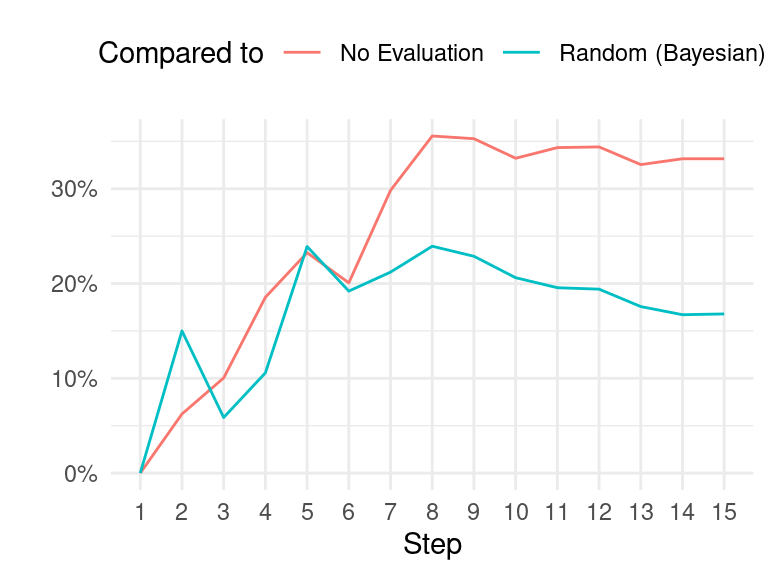
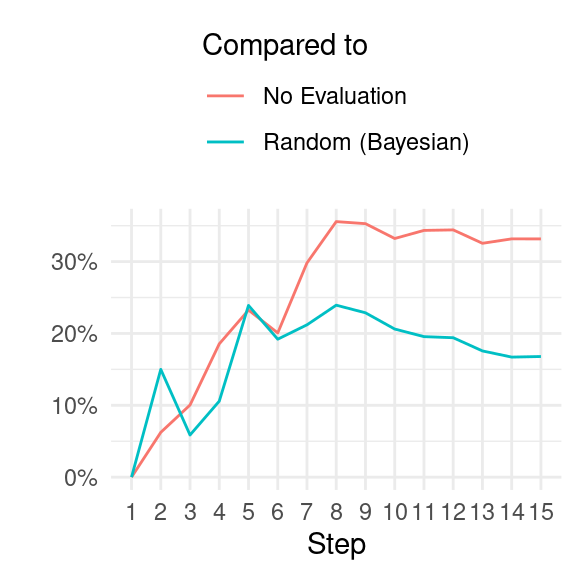
Add conclusion section

diff --git a/docs/diagnose.html b/docs/diagnose.html
@@ -191,12 +191,12 @@ div.csl-indent {
 </div>
 </div>
 <p>The funder is never aware of the true state of the world — the true counterfactual model of all programs’ effectiveness — but they are able to evaluate a program by collecting data and updating their beliefs. I assume that the funder has an initial observation for each program under consideration. This could be data from an earlier experiment or could represent the funder’s or other experts’ prior beliefs.</p>
-<div class="cell fig-cap-location-bottom page-columns page-full" data-hash="diagnose_cache/html/fig-utility-fig_8536ba9b123a1bf1d0a75cb7502ccbda">
+<div class="cell fig-cap-location-bottom page-columns page-full" data-hash="diagnose_cache/html/fig-utility-fig_4dd10d58e440b9084ffba11f66182630">
 
 <div class="no-row-height column-margin column-container"><div class="cell-output-display">
 <div id="fig-utility-fig" class="quarto-figure quarto-figure-center anchored">
 <figure class="figure">
-<p><img src="diagnose_files/figure-html/fig-utility-fig-1.png" class="img-fluid figure-img" width="384"></p>
+<p><img src="diagnose_files/figure-html/fig-utility-fig-1.png" class="img-fluid figure-img" width="288"></p>
 <p></p><figcaption class="figure-caption">Figure&nbsp;2: The exponential utility function, <span class="math inline">\(U(y;\alpha) = 1 - e^{- \alpha y},\)</span> where <span class="math inline">\(\alpha\)</span> represents the degree of risk aversion. In this study, we have <span class="math inline">\(\alpha = 0.25\)</span>.</figcaption><p></p>
 </figure>
 </div>
@@ -279,31 +279,60 @@ G_{\pi,t:T} = \sum_{r=t}^T \gamma^{r-t}E_{\boldsymbol{\theta}_r\sim b_{r-1}}[R(\
 </div>
 </div>
 </div>
-<div class="cell fig-cap-location-bottom page-columns page-full" data-hash="diagnose_cache/html/fig-returns-percent-compare_56f7a4ca0d33f2ffaf762aeab96878fc">
+<div class="cell fig-cap-location-bottom page-columns page-full" data-hash="diagnose_cache/html/fig-returns-percent-compare_65bd719d3d9102edcc8b99ead2324231">
 
 <div class="no-row-height column-margin column-container"><div class="cell-output-display">
 <div id="fig-returns-percent-compare" class="quarto-figure quarto-figure-center anchored">
 <figure class="figure">
-<p><img src="diagnose_files/figure-html/fig-returns-percent-compare-1.png" class="img-fluid figure-img" width="384"></p>
+<p><img src="diagnose_files/figure-html/fig-returns-percent-compare-1.png" class="img-fluid figure-img" width="288"></p>
 <p></p><figcaption class="figure-caption">Figure&nbsp;6: Percentage increase in mean accumulated discounted utility gain, <span class="math inline">\(\frac{\widetilde{W}_T(\pi) - \widetilde{W}_T(\pi')}{\widetilde{W}_T(\pi')}.\)</span></figcaption><p></p>
 </figure>
 </div>
 </div></div></div>
 <p>To provide a clearer comparison, we calculate the percentage difference between the highest performing policies and two baseline policies: (i) the no-evaluation policy, and (ii) the random Bayesian policy (which is roughly on par with the random frequentist policy). When compared to the policy of never re-evaluating a program once it is selected for implementation, we observe that the Bayesian evaluate-second-best and the PFT-DPW offline policies show an average accumulated welfare that is more than 20% higher after four episode steps, and surpasses 30% after seven steps. In comparison to the frequentist policies (evaluate-second-best and random), the highest performing policies show around 20% improvement after five steps.</p>
-<div class="cell fig-cap-location-bottom page-columns page-full" data-hash="diagnose_cache/html/fig-step1-returns_5725224530e7b868db1853e214f291fa">
+</section>
+<section id="conclusion" class="level1 page-columns page-full" data-number="6">
+<h1 data-number="6"><span class="header-section-number">6</span> Conclusion</h1>
+<div class="cell fig-cap-location-bottom page-columns page-full" data-hash="diagnose_cache/html/fig-step1-returns_97712e05c777c513c79f963d41b695f0">
 
 <div class="no-row-height column-margin column-container"><div class="cell-output-display">
 <div id="fig-step1-returns" class="quarto-figure quarto-figure-center anchored">
 <figure class="figure">
-<p><img src="diagnose_files/figure-html/fig-step1-returns-1.png" class="img-fluid figure-img" width="384"></p>
-<p></p><figcaption class="figure-caption">Figure&nbsp;7: The distribution of utility gains at <span class="math inline">\(t = 1\)</span>, comparing the best possible program choice, the frequentist policy, and the Bayesian policy.</figcaption><p></p>
+<p><img src="diagnose_files/figure-html/fig-step1-returns-1.png" class="img-fluid figure-img" width="288"></p>
+<p></p><figcaption class="figure-caption">Figure&nbsp;7: The distribution of utility gains at <span class="math inline">\(t = 1\)</span>, comparing the hypothetical best policy, the frequentist policy, and the Bayesian policy.</figcaption><p></p>
 </figure>
 </div>
 </div></div></div>
-</section>
-<section id="conclusion" class="level1" data-number="6">
-<h1 data-number="6"><span class="header-section-number">6</span> Conclusion</h1>
-<div class="cell" data-hash="diagnose_cache/html/unnamed-chunk-18_e9f5efd90d66d31208a70f8b545a38c3">
+<p>In conclusion, through the construction of a simple simulacrum of the problem faced by an Effective Altruism funder and the consideration of planning policies over time, it is evident that there is a significant gap in accumulated welfare between the more naive versions of policies and the more probabilistic and sophisticated policies. This gap becomes more pronounced when we consider the sequential problem, as opposed to the one-shot problem. For instance, in <a href="#fig-step1-returns">Figure&nbsp;7</a>, we can see that there is little difference between a frequentist NHST policy and a probabilistic one in the first step. However, as more steps are taken, differences between the policies become apparent, underscoring the importance of considering the longer-term implications of planning policies.</p>
+<div class="cell page-columns page-full" data-hash="diagnose_cache/html/fig-returns-compare-include-best_3614bc4530feab58d8c3eb371fbd6b1e">
+
+<div class="no-row-height column-margin column-container"><div class="cell-output-display">
+<div id="fig-returns-compare-include-best" class="quarto-figure quarto-figure-center anchored">
+<figure class="figure">
+<p><img src="diagnose_files/figure-html/fig-returns-compare-include-best-1.png" class="img-fluid figure-img" width="288"></p>
+<p></p><figcaption class="figure-caption">Figure&nbsp;8: Mean accumulated discounted utility gains, compared to a no program implementation policy.</figcaption><p></p>
+</figure>
+</div>
+</div></div></div>
+<p>Even considering these factors, the gap between our best performing policy and the best possible hypothetical policy remains substantial (as seen in <a href="#fig-returns-compare-include-best">Figure&nbsp;8</a>). This suggests that there is likely more room for improvement in order to approach an optimal approach<a href="#fn4" class="footnote-ref" id="fnref4" role="doc-noteref"><sup>4</sup></a>. Here are some ideas for enhancing this study to better reflect real-world environments and develop more effective policies (in no particular order):</p>
+<ul>
+<li>Introduce varying program costs to consider the question of cost-effectiveness, as the cost of implementing different programs can have a significant impact on decision-making.</li>
+<li>Explore how the concept of leverage could influence policy decisions, as certain programs may have a greater ability to leverage resources and create broader impact.</li>
+<li>Allow for different population sizes in the simulation, as population size can affect the scalability and impact of interventions.</li>
+<li>Consider the potential for programs to target multiple populations with some correlation, and for populations to support multiple programs with potential complementarity and substitution effects, as this can reflect the complexity and interrelatedness of real-world scenarios.</li>
+<li>Incorporate non-stationarity into the hyperstates, effectively adding correlation between steps and potentially improving predictions and the need for re-evaluation, as real-world environments are dynamic and evolve over time.</li>
+<li>Account for potential diminishing treatment effects over time as the control outcome moves closer to the treatment level, as this can affect the long-term effectiveness of interventions.</li>
+<li>Consider the quality of programs or population compliance and how it may vary over time, as program quality and population behavior can impact outcomes in real-world scenarios.</li>
+<li>Explore differences in evaluations for implemented programs versus non-implemented ones, as this can introduce potential scale effects and reflect the challenges of transitioning from proof-of-concept studies to scaled programs.</li>
+<li>Restrict the implementation action choices to prevent rapid changes between programs due to fixed costs, as it may not always be feasible to shut down and resume programs in quick succession. For example, disallow restarting a program once abandoned to reflect real-world constraints.</li>
+<li>Allow for program entry and exit over time to capture the dynamic nature of program availability and effectiveness.</li>
+<li>Analyze the sensitivity of the simulation to varying the environment’s hyperparameters, <span class="math inline">\(\boldsymbol{\xi}\)</span>, to better understand the robustness of the results to different parameter settings.</li>
+<li>Consider offline policy calculation methods (e.g., deep reinforcement learning) to further optimize policy performance.</li>
+</ul>
+<!-- Moral uncertainty, ambguity, and moral weights -->
+<p>These enhancements can help to make the simulation model more accurate and reflective of real-world complexities, and enable the development of more effective policies for decision-making in the context of Effective Altruism funding.</p>
+<div style="page-break-after: always;"></div>
+<div class="cell" data-hash="diagnose_cache/html/unnamed-chunk-19_503af6afa00f86a239087083c4905516">
 
 </div>
 
@@ -319,7 +348,7 @@ G_{\pi,t:T} = \sum_{r=t}^T \gamma^{r-t}E_{\boldsymbol{\theta}_r\sim b_{r-1}}[R(\
 Haber, Noah A. 2022. <span>“<span class="nocase">GiveWell’s Uncertainty Problem</span>.”</span> <a href="https://www.metacausal.com/givewells-uncertainty-problem/">https://www.metacausal.com/givewells-uncertainty-problem/</a>.
 </div>
 <div id="ref-Kochenderfer2022" class="csl-entry" role="doc-biblioentry">
-Kochenderfer, Mykel J., Tim A. Wheeler, and Kyle H. Wray. 2022. <em><span class="nocase">Algorithms for decision making</span></em>. <a href="https://algorithmsbook.com/files/dm.pdf">https://algorithmsbook.com/files/dm.pdf</a>.
+Kochenderfer, Mykel J., Tim A. Wheeler, and Kyle H. Wray. 2022. <em><span class="nocase">Algorithms for Decision Making</span></em>. <a href="https://algorithmsbook.com/files/dm.pdf">https://algorithmsbook.com/files/dm.pdf</a>.
 </div>
 <div id="ref-Morales2020" class="csl-entry" role="doc-biblioentry">
 Morales, Miguel. 2020. <em><span>Grokking Deep Reinforcement Learning</span></em>. Manning Publications Co.
@@ -333,6 +362,7 @@ Sunberg, Zachary N., and Mykel J. Kochenderfer. 2018. <span>“<span class="noca
 <li id="fn1"><p>Given a risk-neutral utility function and very weakly informed priors, both these methods are often assumed to result in very similar decisions. However, a winning entry in <a href="http://givewell.com">GiveWell’s</a> <a href="https://blog.givewell.org/2022/12/15/change-our-mind-contest-winners/">Change Our Minds Context</a> by <span class="citation" data-cites="Haber2022">Haber (<a href="#ref-Haber2022" role="doc-biblioref">2022</a>)</span> showed that threshold-based method, like NHST, suffers from bias caused by the winner’s curse phenomenon. A big difference between what I am investigating here and Haber’s work is that I am looking beyond the one-shot accept/reject decision.<a href="#fnref1" class="footnote-back" role="doc-backlink">↩</a></p></li>
 <li id="fn2"><p>The PFT-DPW algorithm is a hybrid approach for solving partially observable Markov decision processes (POMDPs) that combines particle filtering and tree-based search. It represents belief states using a tree data structure and uses double progressive widening to selectively expand promising regions of the belief state space. Particle weights are used to represent the probabilities of different belief states, and these weights are updated through the particle filtering and tree expansion process. Actions are selected based on estimated belief state values, and the tree is pruned to keep it computationally efficient.<a href="#fnref2" class="footnote-back" role="doc-backlink">↩</a></p></li>
 <li id="fn3"><p>Why not more? Each simulated episode can be time-consuming, especially when using the PFT-DPW policy which involves 1,000 iterations at every step before selecting a program for evaluation. Even simpler policies, such as the random policies, take time when updating beliefs using a Bayesian model that fits all the observed data for a program at every evaluation.<a href="#fnref3" class="footnote-back" role="doc-backlink">↩</a></p></li>
+<li id="fn4"><p>It should be mentioned that in this experiment I did not attempt simulations very varying values of the prior hyperparameters, <span class="math inline">\(\boldsymbol{\xi}\)</span>, or the PFT-DPW algorithm hyperparameters.<a href="#fnref4" class="footnote-back" role="doc-backlink">↩</a></p></li>
 </ol>
 </section></div></main> <!-- /main -->
 <script id="quarto-html-after-body" type="application/javascript">
@@ -598,7 +628,7 @@ nprograms &lt;- julia_eval("nprograms")
 discount &lt;- julia_eval("discount")
 
 plan_labels &lt;- c("no impl" = "No Implementation", none = "No Evaluation", random = "Random (Bayesian)", freq = "Random (Frequentist)", evalsecond = "Evaluate Second Best (Bayesian)",
-                 freq_evalsecond = "Evaluate Second Best (Frequentist)", pftdpw = "PFT-DPW", best = "Best")
+                 freq_evalsecond = "Evaluate Second Best (Frequentist)", pftdpw = "PFT-DPW", best = "Hypothetical Best")
 ```
 
 quarto-executable-code-5450563D
@@ -712,7 +742,7 @@ quarto-executable-code-5450563D
 #| label: fig-utility-fig
 #| fig-cap: The exponential utility function, $U(y;\alpha) = 1 - e^{- \alpha y},$ where $\alpha$ represents the degree of risk aversion. In this study, we have $\alpha = 0.25$.
 #| fig-cap-location: bottom
-#| fig-width: 4
+#| fig-width: 3
 #| fig-height: 3
 #| column: margin
 
@@ -967,7 +997,7 @@ quarto-executable-code-5450563D
 
 ```r
 #| label: fig-returns-percent-compare
-#| fig-width: 4
+#| fig-width: 3
 #| fig-height: 3
 #| fig-cap: Percentage increase in mean accumulated discounted utility gain, $\frac{\widetilde{W}_T(\pi) - \widetilde{W}_T(\pi')}{\widetilde{W}_T(\pi')}.$
 #| fig-cap-location: bottom
@@ -985,44 +1015,93 @@ vn_util_diff |&gt;
   scale_x_continuous("Step", breaks = seq(maxstep)) +
   scale_y_continuous("", labels = scales::label_percent()) +
   scale_color_discrete("Compared to", labels = plan_labels) +
-  theme(panel.grid.minor.x = element_blank(), legend.position = "top") +
+  theme(panel.grid.minor.x = element_blank(), legend.position = "top", legend.direction = "vertical") +
   guides(linetype = "none") +
   NULL
 ```
 To provide a clearer comparison, we calculate the percentage difference between the highest performing policies and two baseline policies: (i) the no-evaluation policy, and (ii) the random Bayesian policy (which is roughly on par with the random frequentist policy). When compared to the policy of never re-evaluating a program once it is selected for implementation, we observe that the Bayesian evaluate-second-best and the PFT-DPW offline policies show an average accumulated welfare that is more than 20% higher after four episode steps, and surpasses 30% after seven steps. In comparison to the frequentist policies (evaluate-second-best and random), the highest performing policies show around 20% improvement after five steps.
 
+
+# Conclusion
+
 quarto-executable-code-5450563D
 
 ```r
 #| label: fig-step1-returns
-#| fig-cap: "The distribution of utility gains at $t = 1$, comparing the best possible program choice, the frequentist policy, and the Bayesian policy."
+#| fig-cap: "The distribution of utility gains at $t = 1$, comparing the hypothetical best policy, the frequentist policy, and the Bayesian policy."
 #| fig-cap-location: bottom
-#| fig-width: 4
+#| fig-width: 3
 #| fig-height: 2
 #| column: margin 
 
 vn_util_diff |&gt;
   filter(step == 1, accum, discounted, fct_match(plan_type, c("best", "random", "freq")), fct_match(reward_type, "ex_post")) |&gt; 
-  ggplot(aes(y = plan_type)) +
+  ggplot(aes(x = plan_type)) +
   #tidybayes::stat_pointinterval(aes(x = reward_diff), point_interval = mean_qi, .width = 0.0) +
-  tidybayes::stat_dist_halfeye(aes(x = reward_diff), alpha = 0.5, .width = c(0.5, 0.8)) +
+  tidybayes::stat_dist_halfeye(aes(y = reward_diff), alpha = 0.25, .width = c(0.5, 0.8)) +
   geom_vline(xintercept = 0, linetype = "dotted") +
-  scale_y_discrete(
+  scale_x_discrete(
     "", 
     labels = c("best" = "Best", "freq" = "Frequentist", random = "Random")
   ) +
-  scale_x_continuous("Accumulated Utility Gain") +
+  scale_y_continuous("") +
   #labs(title = "Accumulated Utility Improvement Compared to No Implementation", subtitle = "First Step Only") +
   #facet_wrap(vars(reward_type), ncol = 1, scales = "free_y", labeller = as_labeller(c(ex_ante = "ex ante", ex_post = "ex post"))) +
-  coord_cartesian(xlim = c(-0.75, 0.75)) +
+  coord_cartesian(ylim = c(-0.75, 0.75)) +
   NULL
 ```
+In conclusion, through the construction of a simple simulacrum of the problem faced by an Effective Altruism funder and the consideration of planning policies over time, it is evident that there is a significant gap in accumulated welfare between the more naive versions of policies and the more probabilistic and sophisticated policies. This gap becomes more pronounced when we consider the sequential problem, as opposed to the one-shot problem. For instance, in @fig-step1-returns, we can see that there is little difference between a frequentist NHST policy and a probabilistic one in the first step. However, as more steps are taken, differences between the policies become apparent, underscoring the importance of considering the longer-term implications of planning policies.
 
-# Conclusion
+quarto-executable-code-5450563D
 
+```r
+#| label: fig-returns-compare-include-best
+#| fig-width: 3
+#| fig-height: 4
+#| fig-cap: Mean accumulated discounted utility gains, compared to a no program implementation policy.
+#| column: margin
 
+vn_util_diff |&gt;
+  filter(accum, discounted, fct_match(plan_type, c("evalsecond", "best")), fct_match(reward_type, "ex_post")) |&gt; 
+  ggplot(aes(step)) +
+  tidybayes::stat_lineribbon(aes(y = reward_diff, fill = plan_type, color = plan_type, linetype = "Mean"), .width = 0.0, linewidth = 0.25, point_interval = mean_qi) +
+  # tidybayes::stat_lineribbon(aes(y = reward_diff, fill = plan_type, color = plan_type, linetype = "Median"), .width = 0.0, linewidth = 0.25, point_interval = median_qi) +
+  scale_x_continuous("Step", breaks = seq(maxstep)) +
+  scale_y_continuous("Mean Accumulated Utility Gains", breaks = seq(0, 2, 0.2)) +
+  #scale_linetype_manual("", values = c("Mean" = "dashed", "Median" = "solid")) +
+  scale_color_discrete(
+    "Policy", 
+    labels = plan_labels, 
+    aesthetics = c("color", "fill")
+  ) +
+  # facet_wrap(vars(reward_type), ncol = 1, scales = "free_y", labeller = as_labeller(c(ex_ante = "ex ante", ex_post = "ex post"))) +
+  # labs(title = "Accumulated Utility Improvement Compared to No Implementation") +
+  theme(panel.grid.minor.x = element_blank(), legend.position = "top", legend.direction = "vertical") +
+  guides(linetype = "none") +
+  NULL
+```
+Even considering these factors, the gap between our best performing policy and the best possible hypothetical policy remains substantial (as seen in @fig-returns-compare-include-best). This suggests that there is likely more room for improvement in order to approach an optimal approach[^tuning]. Here are some ideas for enhancing this study to better reflect real-world environments and develop more effective policies (in no particular order):
 
+* Introduce varying program costs to consider the question of cost-effectiveness, as the cost of implementing different programs can have a significant impact on decision-making.
+* Explore how the concept of leverage could influence policy decisions, as certain programs may have a greater ability to leverage resources and create broader impact.
+* Allow for different population sizes in the simulation, as population size can affect the scalability and impact of interventions.
+ * Consider the potential for programs to target multiple populations with some correlation, and for populations to support multiple programs with potential complementarity and substitution effects, as this can reflect the complexity and interrelatedness of real-world scenarios.
+* Incorporate non-stationarity into the hyperstates, effectively adding correlation between steps and potentially improving predictions and the need for re-evaluation, as real-world environments are dynamic and evolve over time.
+* Account for potential diminishing treatment effects over time as the control outcome moves closer to the treatment level, as this can affect the long-term effectiveness of interventions.
+* Consider the quality of programs or population compliance and how it may vary over time, as program quality and population behavior can impact outcomes in real-world scenarios.
+* Explore differences in evaluations for implemented programs versus non-implemented ones, as this can introduce potential scale effects and reflect the challenges of transitioning from proof-of-concept studies to scaled programs.
+* Restrict the implementation action choices to prevent rapid changes between programs due to fixed costs, as it may not always be feasible to shut down and resume programs in quick succession. For example, disallow restarting a program once abandoned to reflect real-world constraints.
+* Allow for program entry and exit over time to capture the dynamic nature of program availability and effectiveness.
+* Analyze the sensitivity of the simulation to varying the environment's hyperparameters, $\boldsymbol{\xi}$, to better understand the robustness of the results to different parameter settings.
+* Consider offline policy calculation methods (e.g., deep reinforcement learning) to further optimize policy performance.
 
+&lt;!-- Moral uncertainty, ambguity, and moral weights --&gt;
+
+These enhancements can help to make the simulation model more accurate and reflective of real-world complexities, and enable the development of more effective policies for decision-making in the context of Effective Altruism funding.
+
+[^tuning]: It should be mentioned that in this experiment I did not attempt simulations very varying values of the prior hyperparameters, $\boldsymbol{\xi}$, or the PFT-DPW algorithm hyperparameters.
+
+{{&lt; pagebreak &gt;}}
 
 quarto-executable-code-5450563D
 
